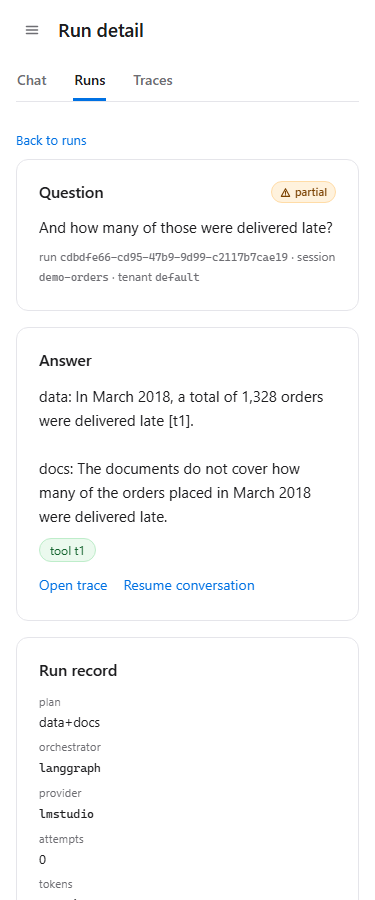
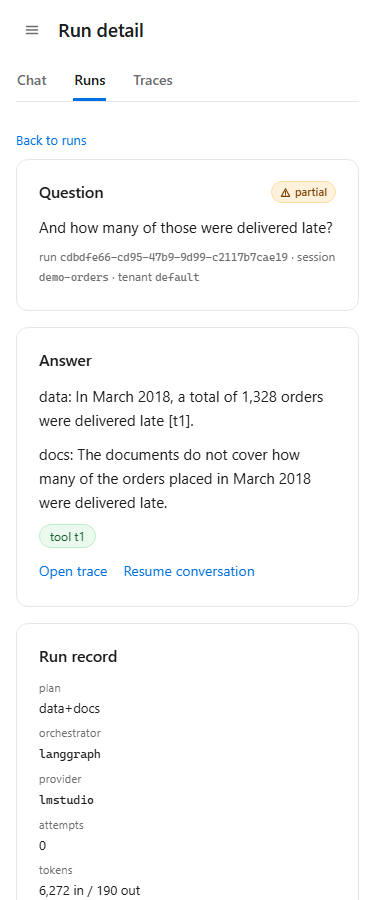
T3.03: render answers as safe markdown and drop chat feedback

diff --git a/web/src/components/Markdown.tsx b/web/src/components/Markdown.tsx
@@ -1,0 +1,168 @@
+import { Fragment } from "react";
+import type { ReactNode } from "react";
+
+// A deliberately small Markdown renderer for model answers. It handles the
+// constructs the agents actually emit (paragraphs, ordered/unordered lists,
+// headings, bold/italic, inline code, fenced code and http links) and never
+// injects raw HTML: every piece of text becomes a React text node, so a model
+// that writes <script> is displayed, not executed. No new dependency.
+const INLINE = /(\*\*[^*]+\*\*|__[^_]+__|`[^`]+`|\[[^\]]+\]\(https?:\/\/[^)\s]+\)|\*[^*]+\*|_[^_]+_)/g;
+const HEADING = /^(#{1,3})\s+(.+)$/;
+const ORDERED = /^\s*(\d+)[.)]\s+(.+)$/;
+const BULLET = /^\s*[-*+]\s+(.+)$/;
+
+function safeHref(value: string): string | null {
+  try {
+    const url = new URL(value);
+    return url.protocol === "http:" || url.protocol === "https:" ? url.toString() : null;
+  } catch {
+    return null;
+  }
+}
+
+function inline(text: string): ReactNode[] {
+  const parts: ReactNode[] = [];
+  const pattern = new RegExp(INLINE.source, "g");
+  let last = 0;
+  let match: RegExpExecArray | null;
+  while ((match = pattern.exec(text)) !== null) {
+    if (match.index > last) {
+      parts.push(text.slice(last, match.index));
+    }
+    const token = match[0];
+    const key = `${match.index}-${token}`;
+    if (token.startsWith("**") && token.endsWith("**")) {
+      parts.push(<strong key={key}>{inline(token.slice(2, -2))}</strong>);
+    } else if (token.startsWith("__") && token.endsWith("__")) {
+      parts.push(<strong key={key}>{inline(token.slice(2, -2))}</strong>);
+    } else if (token.startsWith("`") && token.endsWith("`")) {
+      parts.push(<code key={key}>{token.slice(1, -1)}</code>);
+    } else if (token.startsWith("*") && token.endsWith("*")) {
+      parts.push(<em key={key}>{inline(token.slice(1, -1))}</em>);
+    } else if (token.startsWith("_") && token.endsWith("_")) {
+      parts.push(<em key={key}>{inline(token.slice(1, -1))}</em>);
+    } else {
+      const link = /^\[([^\]]+)\]\((https?:\/\/[^)\s]+)\)$/.exec(token);
+      const href = link === null ? null : safeHref(link[2]);
+      if (link !== null && href !== null) {
+        parts.push(
+          <a key={key} href={href} target="_blank" rel="noreferrer">
+            {link[1]}
+          </a>,
+        );
+      } else {
+        parts.push(token);
+      }
+    }
+    last = match.index + token.length;
+  }
+  if (last < text.length) {
+    parts.push(text.slice(last));
+  }
+  return parts;
+}
+
+export function Markdown({ text }: { text: string }) {
+  const lines = text.replace(/\r\n/g, "\n").replace(/\r/g, "\n").split("\n");
+  const blocks: ReactNode[] = [];
+  let index = 0;
+  let key = 0;
+  while (index < lines.length) {
+    const line = lines[index];
+    if (line.trim() === "") {
+      index += 1;
+      continue;
+    }
+    if (line.trim().startsWith("```")) {
+      const language = line.trim().slice(3).trim();
+      const code: string[] = [];
+      index += 1;
+      while (index < lines.length && !lines[index].trim().startsWith("```")) {
+        code.push(lines[index]);
+        index += 1;
+      }
+      index += 1;
+      blocks.push(
+        <pre key={`code-${key++}`} className="markdown-code">
+          <code data-language={language || undefined}>{code.join("\n")}</code>
+        </pre>,
+      );
+      continue;
+    }
+    const heading = HEADING.exec(line);
+    if (heading !== null) {
+      const level = heading[1].length;
+      const Tag = level === 1 ? "h2" : level === 2 ? "h3" : "h4";
+      blocks.push(<Tag key={`heading-${key++}`}>{inline(heading[2])}</Tag>);
+      index += 1;
+      continue;
+    }
+    const ordered = ORDERED.exec(line);
+    if (ordered !== null) {
+      const start = Number(ordered[1]);
+      const items: string[] = [];
+      while (index < lines.length) {
+        const item = ORDERED.exec(lines[index]);
+        if (item === null) {
+          break;
+        }
+        items.push(item[2]);
+        index += 1;
+      }
+      blocks.push(
+        <ol key={`ol-${key++}`} start={start}>
+          {items.map((item, itemIndex) => (
+            <li key={itemIndex}>{inline(item)}</li>
+          ))}
+        </ol>,
+      );
+      continue;
+    }
+    const bullet = BULLET.exec(line);
+    if (bullet !== null) {
+      const items: string[] = [];
+      while (index < lines.length) {
+        const item = BULLET.exec(lines[index]);
+        if (item === null) {
+          break;
+        }
+        items.push(item[1]);
+        index += 1;
+      }
+      blocks.push(
+        <ul key={`ul-${key++}`}>
+          {items.map((item, itemIndex) => (
+            <li key={itemIndex}>{inline(item)}</li>
+          ))}
+        </ul>,
+      );
+      continue;
+    }
+    const paragraph: string[] = [];
+    while (index < lines.length) {
+      const current = lines[index];
+      if (
+        current.trim() === "" ||
+        current.trim().startsWith("```") ||
+        HEADING.test(current) ||
+        ORDERED.test(current) ||
+        BULLET.test(current)
+      ) {
+        break;
+      }
+      paragraph.push(current);
+      index += 1;
+    }
+    blocks.push(
+      <p key={`p-${key++}`}>
+        {paragraph.map((part, partIndex) => (
+          <Fragment key={partIndex}>
+            {inline(part)}
+            {partIndex < paragraph.length - 1 ? <br /> : null}
+          </Fragment>
+        ))}
+      </p>,
+    );
+  }
+  return <div className="markdown">{blocks}</div>;
+}

diff --git a/web/src/pages/ChatPage.tsx b/web/src/pages/ChatPage.tsx
@@ -13,9 +13,10 @@ import {
 } from "../api";
 import type { ChatResponse, RunSummary, RunsResponse, StepEvent } from "../api";
 import { CitationChips, ErrorList, StatusBadge, Tag, statusTone } from "../components/Badges";
-import { FeedbackForm } from "../components/Feedback";
 import { AlertIcon, ClockIcon } from "../components/Icons";
+import { Markdown } from "../components/Markdown";
 import { formatCostDetail, formatDuration, formatLatency, formatTokens } from "../format";
+import { runHref, traceHref } from "../routes";
 import { newSessionId } from "../session";
 
 function stepSummary(step: StepEvent): string {
@@ -305,7 +306,9 @@ function TurnArticle({
             </p>
           </>
         ) : answerText !== "" ? (
-          <p className="turn-text turn-answer">{answerText}</p>
+          <div className="turn-answer">
+            <Markdown text={answerText} />
+          </div>
         ) : turn.streaming ? (
           <p className="muted">Waiting for the first token...</p>
         ) : (
@@ -358,31 +361,14 @@ function TurnArticle({
           <>
             <p className="turn-meta">
               run{" "}
-              <a
-                href={`#/runs/${encodeURIComponent(result.run_id)}?tenant=${encodeURIComponent(
-                  result.tenant_id,
-                )}`}
-                title={result.run_id}
-              >
+              <a href={runHref(result.run_id, result.tenant_id, result.session_id)} title={result.run_id}>
                 <code>{result.run_id.slice(0, 8)}</code>
               </a>{" "}
               · {formatTokens(result.usage.input_tokens)} in /{" "}
               {formatTokens(result.usage.output_tokens)} out ·{" "}
               {formatCostDetail(result.cost_usd)} ·{" "}
-              <a
-                href={`#/runs/${encodeURIComponent(result.run_id)}/trace?tenant=${encodeURIComponent(
-                  result.tenant_id,
-                )}`}
-              >
-                open trace
-              </a>
+              <a href={traceHref(result.run_id, result.tenant_id, result.session_id)}>open trace</a>
             </p>
-            <FeedbackForm
-              key={result.run_id}
-              runId={result.run_id}
-              tenantId={result.tenant_id}
-              latest={null}
-            />
           </>
         ) : null}
       </article>

diff --git a/web/src/styles.css b/web/src/styles.css
@@ -1272,6 +1272,64 @@ textarea {
   line-height: 1.6;
 }
 
+.markdown > :first-child {
+  margin-top: 0;
+}
+
+.markdown > :last-child {
+  margin-bottom: 0;
+}
+
+.markdown p {
+  margin: 0 0 10px;
+}
+
+.markdown h2,
+.markdown h3,
+.markdown h4 {
+  margin: 14px 0 6px;
+  font-size: 16px;
+  line-height: 1.35;
+}
+
+.markdown ul,
+.markdown ol {
+  margin: 4px 0 10px;
+  padding-left: 1.35em;
+}
+
+.markdown li {
+  margin: 2px 0;
+}
+
+.markdown code {
+  padding: 1px 4px;
+  border-radius: 4px;
+  background: var(--bg-sidebar);
+  font-family: var(--mono);
+  font-size: 0.86em;
+}
+
+.markdown pre {
+  margin: 4px 0 10px;
+  padding: 10px 12px;
+  overflow-x: auto;
+  border: 1px solid var(--border);
+  border-radius: var(--radius-sm);
+  background: var(--bg-sidebar);
+  white-space: pre;
+}
+
+.markdown pre code {
+  padding: 0;
+  background: none;
+}
+
+.markdown a {
+  color: var(--accent);
+  text-underline-offset: 2px;
+}
+
 .clarify-question {
   margin: 4px 0 8px;
   font-size: 16px;

diff --git a/web/src/pages/RunDetailPage.tsx b/web/src/pages/RunDetailPage.tsx
@@ -4,6 +4,7 @@ import { errorMessage, getJson, isAbortError } from "../api";
 import type { RunSummary } from "../api";
 import { CitationChips, ErrorList, StatusBadge, Tag } from "../components/Badges";
 import { FeedbackForm } from "../components/Feedback";
+import { Markdown } from "../components/Markdown";
 import { TENANTS } from "../config";
 import {
   formatCostDetail,
@@ -93,7 +94,9 @@ export function RunDetailPage({
           <section className="surface">
             <h2 className="surface-title">Answer</h2>
             {run.answer !== null && run.answer !== "" ? (
-              <p className="turn-text turn-answer">{run.answer}</p>
+              <div className="turn-answer">
+                <Markdown text={run.answer} />
+              </div>
             ) : (
               <p className="muted">The run has no stored answer.</p>
             )}

diff --git a/docs/spec/progress.md b/docs/spec/progress.md
@@ -54,4 +54,4 @@ One line per task. Status is `todo`, `doing`, `blocked` (say on what), `deferred
 
 | Task | Status | Commit | Notes |
 | --- | --- | --- | --- |
-| T3.03 | done | d9ab68c | Visual design pass on main. Backend: `GET /settings?tenant_id=` returns a read-only JSON snapshot built once in `build_app_deps` from `Settings`, the agent entry points and the tool manifests (platform choices and limits, tenant allowlists, seller scope, retrieval and cache, provider name/model/capabilities/price, tool and agent specs with `allowed`); no API key, base URL, database URL or token secret, unknown tenant 404 and a missing snapshot 503. `GET /runs` gained an optional `session_id` filter applied in SQL with the tenant, so the chat page rebuilds a stored conversation from run rows. 8 settings tests plus a session-filter test; 650 unit and contract tests pass with 47 integration skips outside env, and 33 integration tests pass with 2 skips (Jaeger absent, record switch) with `.env`. Web: app shell with a 260 px sidebar (72 px rail at 1024 to 1279, native-dialog drawer under 1024), title row and a Chat/Runs/Traces tab bar scoped to the current conversation, top-level `#/traces`, chat transcript with compact run summary (gate shows "not recorded" for stored runs because the run row does not persist it), restyled runs table with a container-driven stacked layout, native settings dialog with 7 sections (Retrieval & Cache split into Retrieval and Cache to reach seven), inline SVG icons, no new npm dependency. `npm run build`: index 0.39 kB, CSS 31.56 kB (6.50 gzip), JS 303.94 kB (89.70 gzip), up from T2.14's CSS 10.89 kB and JS 265.07 kB. 20 screenshots `docs/ui-{chat,runs,traces,run-detail,trace,trace-timeline,settings}-{1440,768,375}.png` plus `ui-rail-1100.png`, taken with headless Chrome on live run 635dcad7-e4ba-4e72-83dd-4700b1372cfe (24 spans) and session `ui-demo-2026-11-13`. Checks: 375 has no horizontal scroll (document and main scrollWidth 375), the runs table is stacked with `data-label` headers, the dialog has 7 tabs, Escape closes it and focus returns to the Settings menu item at 1440 or to the menu button under 1024, ArrowRight on the tab bar selects Traces, and an Enter keydown while `isComposing` does not submit. `docs/ui.md` holds the tokens, layout, breakpoints, component rules, accessibility checklist and the 375/768/1440 checks. Post-review fixes: the settings section row wraps at 375 instead of scrolling, and a corrected gate error on an ok run collapses under a disclosure instead of a full red box. Follow-up after author review: the three tabs are scoped to the current conversation and every tab href carries its `session`, so switching Chat to Runs or Traces and back keeps the same transcript; Runs and Traces call `GET /runs?session_id=`, and the tenant filter was removed because switching tenant starts a new conversation; the settings dialog is a fixed 1000 by 760 desktop dialog and viewport-filling on a phone, so changing sections does not resize it. The sidebar now reads `GET /sessions`, one row per chat grouped by `session_id` (first question as title, latest plan and time, run count), instead of one row per run; sessionless runs are excluded. `npm run build`: CSS 31.90 kB (6.56 gzip), JS 304.71 kB (90.02 gzip); screenshots refreshed, and a live check showed 8 conversation rows, clicking one opened 6 stored turns, the same session in all tab URLs, and a 1000 by 760 dialog on both Account and Model. ruff, format, mypy and both eval gates untouched; CI runs on the pushed branch |
+| T3.03 | done | d9ab68c | Visual design pass on main. Backend: `GET /settings?tenant_id=` returns a read-only JSON snapshot built once in `build_app_deps` from `Settings`, the agent entry points and the tool manifests (platform choices and limits, tenant allowlists, seller scope, retrieval and cache, provider name/model/capabilities/price, tool and agent specs with `allowed`); no API key, base URL, database URL or token secret, unknown tenant 404 and a missing snapshot 503. `GET /runs` gained an optional `session_id` filter applied in SQL with the tenant, so the chat page rebuilds a stored conversation from run rows. 8 settings tests plus a session-filter test; 650 unit and contract tests pass with 47 integration skips outside env, and 33 integration tests pass with 2 skips (Jaeger absent, record switch) with `.env`. Web: app shell with a 260 px sidebar (72 px rail at 1024 to 1279, native-dialog drawer under 1024), title row and a Chat/Runs/Traces tab bar scoped to the current conversation, top-level `#/traces`, chat transcript with compact run summary (gate shows "not recorded" for stored runs because the run row does not persist it), restyled runs table with a container-driven stacked layout, native settings dialog with 7 sections (Retrieval & Cache split into Retrieval and Cache to reach seven), inline SVG icons, no new npm dependency. `npm run build`: index 0.39 kB, CSS 31.56 kB (6.50 gzip), JS 303.94 kB (89.70 gzip), up from T2.14's CSS 10.89 kB and JS 265.07 kB. 20 screenshots `docs/ui-{chat,runs,traces,run-detail,trace,trace-timeline,settings}-{1440,768,375}.png` plus `ui-rail-1100.png`, taken with headless Chrome on live run 635dcad7-e4ba-4e72-83dd-4700b1372cfe (24 spans) and session `ui-demo-2026-11-13`. Checks: 375 has no horizontal scroll (document and main scrollWidth 375), the runs table is stacked with `data-label` headers, the dialog has 7 tabs, Escape closes it and focus returns to the Settings menu item at 1440 or to the menu button under 1024, ArrowRight on the tab bar selects Traces, and an Enter keydown while `isComposing` does not submit. `docs/ui.md` holds the tokens, layout, breakpoints, component rules, accessibility checklist and the 375/768/1440 checks. Post-review fixes: the settings section row wraps at 375 instead of scrolling, and a corrected gate error on an ok run collapses under a disclosure instead of a full red box. Follow-up after author review: the three tabs are scoped to the current conversation and every tab href carries its `session`, so switching Chat to Runs or Traces and back keeps the same transcript; Runs and Traces call `GET /runs?session_id=`, and the tenant filter was removed because switching tenant starts a new conversation; the settings dialog is a fixed 1000 by 760 desktop dialog and viewport-filling on a phone, so changing sections does not resize it. The sidebar now reads `GET /sessions`, one row per chat grouped by `session_id` (first question as title, latest plan and time, run count), instead of one row per run; sessionless runs are excluded. Chat answers render a safe local Markdown subset (paragraphs, ordered/unordered lists, bold/italic, inline and fenced code, http links) with no new dependency; raw HTML stays text. The feedback form was removed from the chat transcript and remains on the run detail. `npm run build`: CSS 32.58 kB (6.69 gzip), JS 307.15 kB (90.84 gzip); screenshots refreshed, and a live check showed 3 conversation rows, clicking one opened its stored turns, the same session in all tab URLs, a 3-item rendered product list with no raw `**`, no chat feedback text, and a 1000 by 760 dialog on both Account and Model. ruff, format, mypy and both eval gates untouched; CI runs on the pushed branch |

diff --git a/docs/ui.md b/docs/ui.md
@@ -70,7 +70,7 @@ Chat and composer content is capped at 860 px and centred. The runs table switch
 - **Dialog.** Native `<dialog>` opened with `showModal()` only. It has `aria-labelledby`, a visible close button, `closedby="any"` as progressive enhancement, and the pointer-position fallback where closedby is unsupported. No `role="dialog"`, no manual focus trap, no `inert` toggling, no scroll lock on `html`/`body`. `dialog:modal` and `::backdrop` use `overscroll-behavior: contain`.
 - **Menu.** A disclosure button with `aria-haspopup="menu"` and `aria-expanded`, a `role="menu"` of `menuitem` / `menuitemradio` items, arrow-key movement, Escape to close and return focus, and a pointerdown listener that closes on an outside click.
 - **Status.** Badge tone map: `ok` -> success check, `running` -> accent clock, every warning status (`partial`, `needs_clarification`, `timeout`, `provider_error`, `auth_error`, `waiting_approval`) -> warning triangle, everything else -> neutral dot. The label is always rendered.
-- **Chat.** User turns are right-aligned quiet bubbles; assistant turns are full-width with a thin divider. Streaming text occupies the answer position until `run.finished` replaces it with the final answer, status and citations. A `needs_clarification` status renders the question, not answer styling, and no citations.
+- **Chat.** User turns are right-aligned quiet bubbles; assistant turns are full-width with a thin divider. Answers render a safe Markdown subset (paragraphs, ordered/unordered lists, bold/italic, inline and fenced code, http links) with a local renderer: raw HTML is shown as text, never executed, and no dependency is added. Streaming text occupies the answer position until `run.finished` replaces it with the final answer, status and citations. A `needs_clarification` status renders the question, not answer styling, and no citations. Feedback is not repeated under every chat answer; the run detail owns it.
 - **Composer.** Enter sends and Shift+Enter adds a newline. The keydown handler calls `preventDefault()` first and returns early when `event.isComposing` or `keyCode === 229`, so an IME candidate confirmation never submits the message. The field grows with `field-sizing: content` between 1 and 10 lines; without support it keeps one row and scrolls. The send button stays the native submit path.
 - **Forms.** Every control has a programmatic label (`htmlFor`/`id` or a wrapping label), and placeholders are hints, not labels. Buttons keep a 24 px minimum target; icon-only controls have a visually hidden name.
 - **Motion.** No animation except a 120 ms chevron rotation; `prefers-reduced-motion: reduce` disables transitions and animations.
